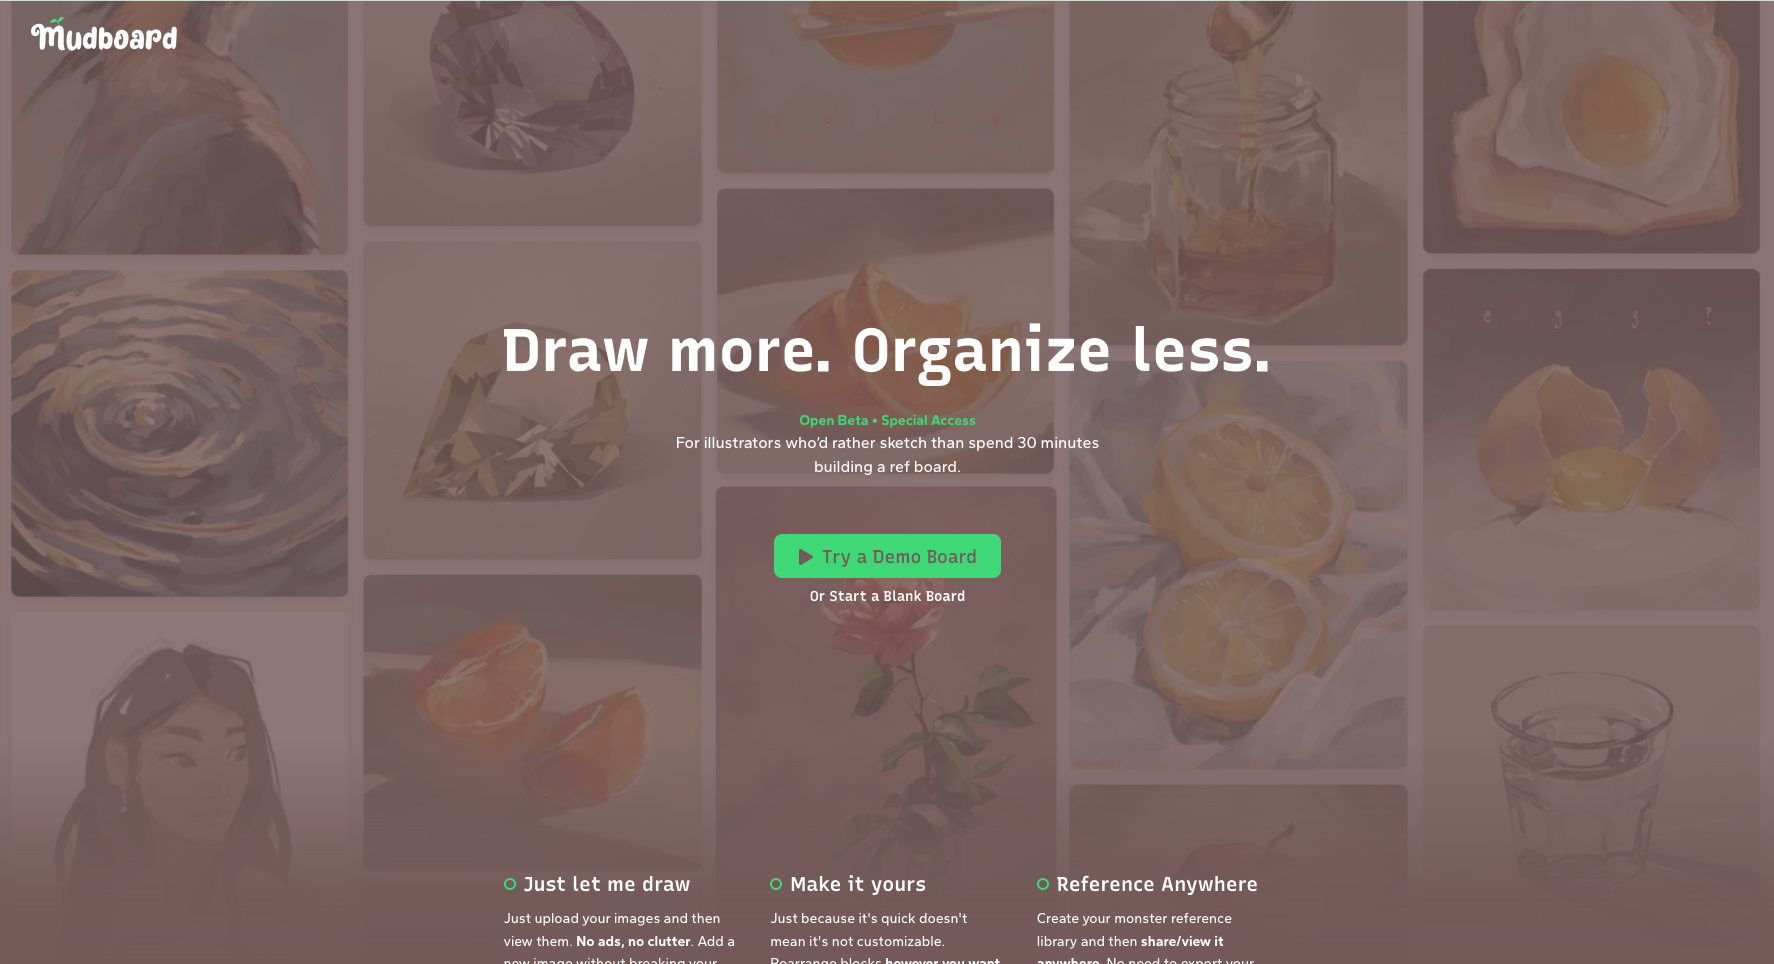
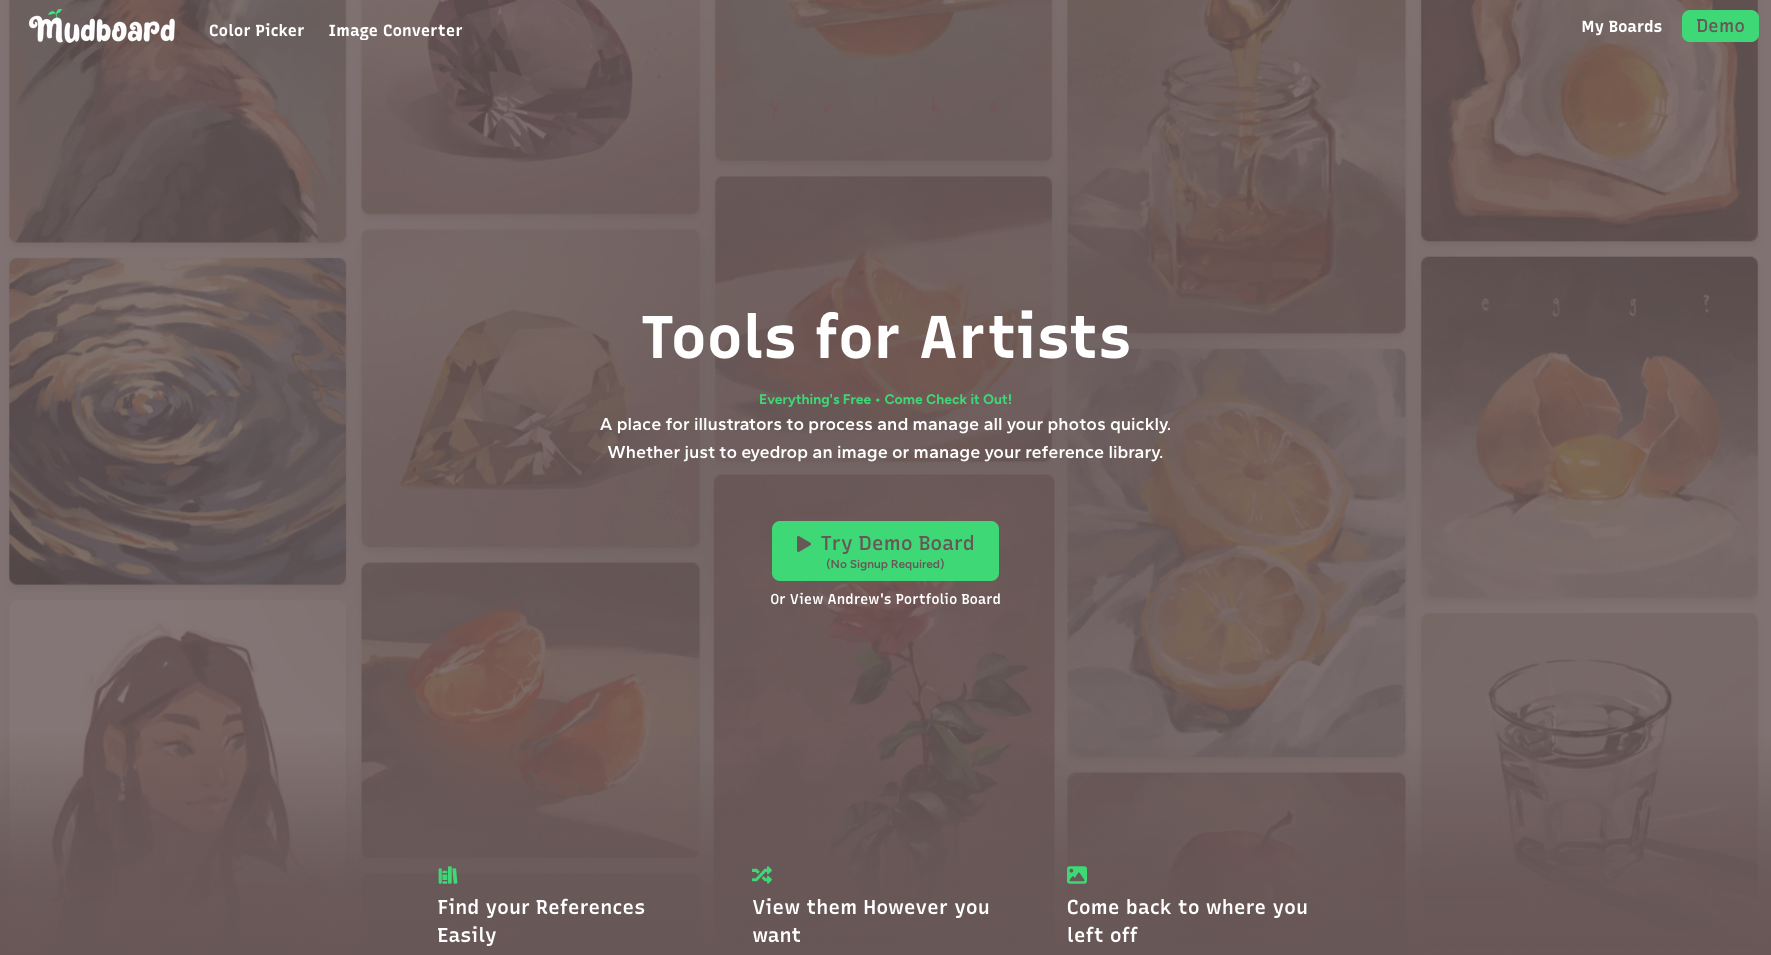
metadata and opengraph for portfolio

diff --git a/app/layout.tsx b/app/layout.tsx
@@ -38,10 +38,10 @@ export const metadata: Metadata = {
   },
 
   description:
-    "A reference board made for Illustrators and Professional Artists. Spend more time drawing, not organizing photos",
+    "Personal reference board and image processing tools made for illustrators and professional artists.",
 
   // Optional but helpful:
-  metadataBase: new URL("https://mudboard.com"), // your real domain
+  metadataBase: new URL("https://mudboard.com"),
 
   alternates: {
     canonical: "https://mudboard.com",
@@ -59,8 +59,7 @@ export const metadata: Metadata = {
 
   openGraph: {
     title: "Mudboard",
-    description:
-      "Ref board for illustrators. Spend more time drawing, not organizing.",
+    description: "Tools to organize and process reference images for artists.",
     url: "https://mudboard.com",
     siteName: "Mudboard",
     images: [
@@ -78,8 +77,7 @@ export const metadata: Metadata = {
   twitter: {
     card: "summary_large_image",
     title: "Mudboard",
-    description:
-      "Ref board for illustrators. Spend more time drawing, not organizing.",
+    description: "Tools to organize and process reference images for artists.",
     images: ["https://mudboard.com/og-image.png"],
     creator: "@andrwyoung1",
   },

diff --git a/app/portfolio/layout.tsx b/app/portfolio/layout.tsx
@@ -1,0 +1,39 @@
+import { THUMBNAIL_ASPECT_MAP } from "@/types/upload-settings";
+import { Metadata } from "next";
+import { getThumbnailUrl } from "@/utils/get-thumbnail-url";
+import { JONADREW_ALLOWED_BOARD_ID } from "./settings";
+
+const thumbnailUrl = getThumbnailUrl(
+  JONADREW_ALLOWED_BOARD_ID,
+  "board-thumb-ext"
+);
+
+export const metadata: Metadata = {
+  title: "Jonadrew Portfolio",
+  description: "Andrew's art portfolio built using a Mudboard board",
+
+  openGraph: {
+    title: `Jonadrew Portfolio`,
+    description: "Andrew's art portfolio built using Mudboard",
+    images: [
+      {
+        url: thumbnailUrl,
+        width: THUMBNAIL_ASPECT_MAP["board-thumb-ext"].width,
+        height: THUMBNAIL_ASPECT_MAP["board-thumb-ext"].height,
+        alt: `Jonadrew Portfolio`,
+      },
+    ],
+  },
+  twitter: {
+    title: `Jonadrew Portfolio`,
+    images: [thumbnailUrl],
+  },
+};
+
+export default function PortfolioLayout({
+  children,
+}: {
+  children: React.ReactNode;
+}) {
+  return <>{children}</>;
+}

diff --git a/app/portfolio/page.tsx b/app/portfolio/page.tsx
@@ -39,8 +39,7 @@ import { useOffshoreThumbnailGenerator } from "@/hooks/use-offshore-thumbnail-ge
 import Canvas from "../b/[boardId]/canvas";
 import FreeformCanvas from "../b/[boardId]/freeform-canvas";
 import ResizableSidebar from "./sidebar";
-
-const JONADREW_ALLOWED_BOARD_ID = "410ca1c3-cfe8-479a-a2ec-65d5d896c4f9";
+import { JONADREW_ALLOWED_BOARD_ID } from "./settings";
 
 export default function Board() {
   const boardId = JONADREW_ALLOWED_BOARD_ID;

diff --git a/app/portfolio/settings.ts b/app/portfolio/settings.ts
@@ -1,0 +1,1 @@
+export const JONADREW_ALLOWED_BOARD_ID = "410ca1c3-cfe8-479a-a2ec-65d5d896c4f9";
